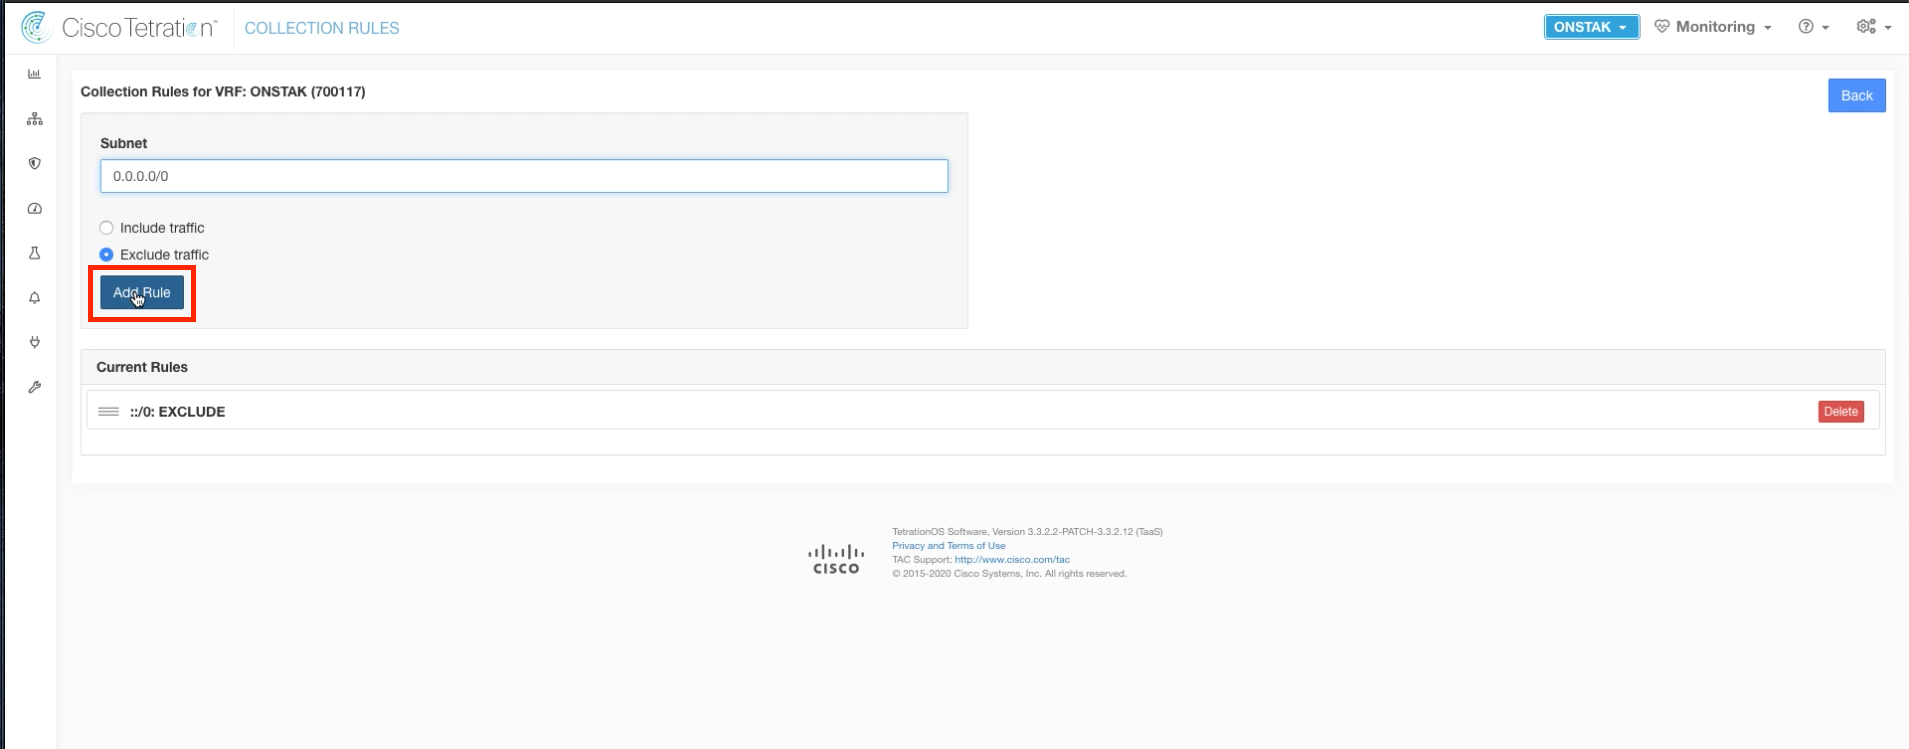
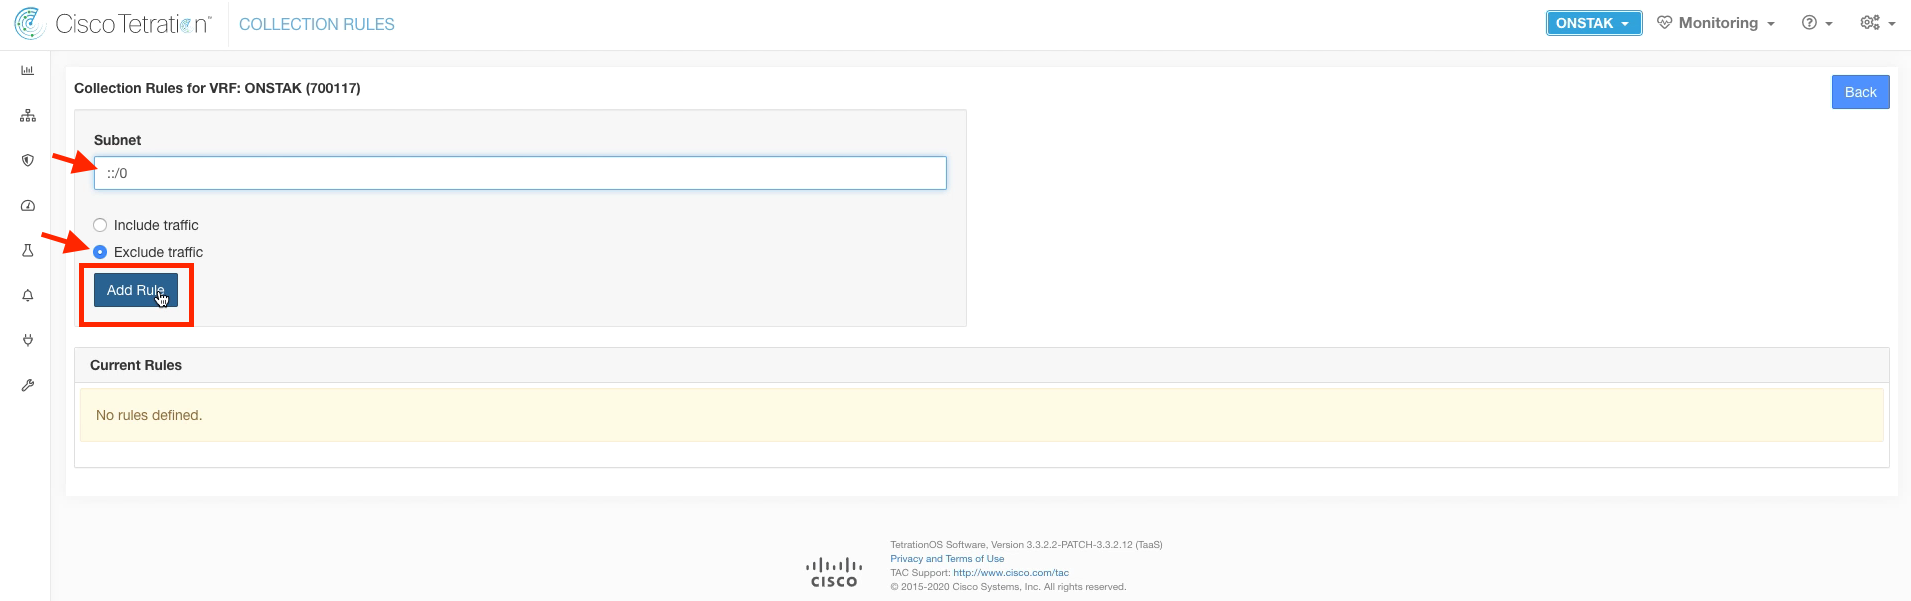
update module01

diff --git a/labguide/image2html-css-md.py b/labguide/image2html-css-md.py
@@ -11,17 +11,18 @@ files = [file for file in glob.glob('*.png')]
 files.sort(key=os.path.getmtime)
 
 for i,file in enumerate(files):
-    new_fn = f'{module}_' + str(i).zfill(3) + '.png'
+    pic_nbr = i + 1
+    new_fn = f'{module}_' + str(pic_nbr).zfill(3) + '.png'
     os.rename(file,new_fn)
-    url_dict[i] = f'https://onstakinc.github.io/cisco-tetration-hol/labguide/{module}/images/{new_fn}'
-    stepnum = str(i).zfill(3)
-    stepnum_dict[i] = f'{stepnum}'
+    url_dict[pic_nbr] = f'https://onstakinc.github.io/cisco-tetration-hol/labguide/{module}/images/{new_fn}'
+    stepnum = str(pic_nbr).zfill(3)
+    stepnum_dict[pic_nbr] = f'{stepnum}'
 
 os.chdir('..')
 
 if os.path.exists('README.md'):
     print("Backing up README.md")
-    copy2('README.md', 'README.bak.md') 
+    copy2('README.md', 'README.bak.md')
 else:
     pass
 

diff --git a/labguide/module02/README.md b/labguide/module02/README.md
@@ -1,37 +1,95 @@
 # Cisco Tetration - Hands-On Lab
 
-## Module02 - Collection Rules
-
+## Module02:  Collection Rules
 In this module we will configure Collection Rules.  Collection Rules govern what endpoints will be considered for inclusion in inventory.  Typically this should be any internal IP address space of an organization.  It may also make sense to configure public IP address space that is used by an organization,  such as DMZ or public cloud address space.  
 
-Perform the following tasks to configure Collection Rules. <a href="https://cisco-tetration-hol-content.s3.amazonaws.com/videos/01_collection_rules.mp4" title="Collection Rules Title">Click here</a> to view a video of the tasks being performed.
+When configuring Collection rules, we must first delete the IPv6 and IPv4 rules that are configured by default in a new Tetration deployment. Then we can create our own specific rules to match the internal IP space. In the lab,  we'll assume the customer uses all RFC1918 private address space inside their organization.
+
+Perform the following tasks to configure Collection Rules. <a href="https://cisco-tetration-hol-content.s3.amazonaws.com/videos/01_collection_rules.mp4" title="Collection Rules Title">Click here</a> to view a video of the tasks being performed.  
+
+### Steps for this Module  
+<a href="#step-001" style="font-weight:bold">Step 001</a>  
+<a href="#step-002" style="font-weight:bold">Step 002</a>  
+<a href="#step-003" style="font-weight:bold">Step 003</a>  
+<a href="#step-004" style="font-weight:bold">Step 004</a>  
+<a href="#step-005" style="font-weight:bold">Step 005</a>  
+<a href="#step-006" style="font-weight:bold">Step 006</a>  
+<a href="#step-007" style="font-weight:bold">Step 007</a>  
+<a href="#step-008" style="font-weight:bold">Step 008</a>  
+<a href="#step-009" style="font-weight:bold">Step 009</a>  
+<a href="#step-010" style="font-weight:bold">Step 010</a>  
 
 
-1. Click on the gear icon in the upper right hand corner and select Collection Rules.   
+<div class="step" id="step-001"><a href="#step-001" style="font-weight:bold">Step 001</a></div>
+Click on the gear icon in the upper right hand corner and select Collection Rules.  
 
-<a href="https://onstakinc.github.io/cisco-tetration-hol/labguide/module02/images/module02_000.png"><img src="https://onstakinc.github.io/cisco-tetration-hol/labguide/module02/images/module02_000.png" style="width:100%;height:100%;"></a>  
+<a href="https://onstakinc.github.io/cisco-tetration-hol/labguide/module02/images/module02_001.png"><img src="https://onstakinc.github.io/cisco-tetration-hol/labguide/module02/images/module02_001.png" style="width:100%;height:100%;"></a>  
 
-2. Click on Edit.
 
-<a href="https://onstakinc.github.io/cisco-tetration-hol/labguide/module02/images/module02_001.png"><img src="https://onstakinc.github.io/cisco-tetration-hol/labguide/module02/images/module02_001.png" style="width:100%;height:100%;"></a>
 
-3. Add rule.   
+<div class="step" id="step-002"><a href="#step-002" style="font-weight:bold">Step 002</a></div>
+Click on Edit.  
 
 <a href="https://onstakinc.github.io/cisco-tetration-hol/labguide/module02/images/module02_002.png"><img src="https://onstakinc.github.io/cisco-tetration-hol/labguide/module02/images/module02_002.png" style="width:100%;height:100%;"></a>  
 
+
+
+<div class="step" id="step-003"><a href="#step-003" style="font-weight:bold">Step 003</a></div>  
+Click Delete to remove the default ::/0: IPv6 rule.
+
 <a href="https://onstakinc.github.io/cisco-tetration-hol/labguide/module02/images/module02_003.png"><img src="https://onstakinc.github.io/cisco-tetration-hol/labguide/module02/images/module02_003.png" style="width:100%;height:100%;"></a>  
+
+
+
+<div class="step" id="step-004"><a href="#step-004" style="font-weight:bold">Step 004</a></div>  
+Click Delete to remove the default 0.0.0.0/0 IPv4 rule.
 
 <a href="https://onstakinc.github.io/cisco-tetration-hol/labguide/module02/images/module02_004.png"><img src="https://onstakinc.github.io/cisco-tetration-hol/labguide/module02/images/module02_004.png" style="width:100%;height:100%;"></a>  
 
+
+
+<div class="step" id="step-005"><a href="#step-005" style="font-weight:bold">Step 005</a></div>  
+Enter ::/0: in the Subnet field,  select "Exclude traffic" and then Add Rule.
+
+
 <a href="https://onstakinc.github.io/cisco-tetration-hol/labguide/module02/images/module02_005.png"><img src="https://onstakinc.github.io/cisco-tetration-hol/labguide/module02/images/module02_005.png" style="width:100%;height:100%;"></a>  
+
+
+
+<div class="step" id="step-006"><a href="#step-006" style="font-weight:bold">Step 006</a></div>  
+Enter 0.0.0.0/0 in the Subnet field, Select "Exclude traffic" and then Add Rule.
 
 <a href="https://onstakinc.github.io/cisco-tetration-hol/labguide/module02/images/module02_006.png"><img src="https://onstakinc.github.io/cisco-tetration-hol/labguide/module02/images/module02_006.png" style="width:100%;height:100%;"></a>  
 
+
+
+<div class="step" id="step-007"><a href="#step-007" style="font-weight:bold">Step 007</a></div>  
+Enter 10.0.0.0/8 in the Subnet field,  Select "include traffic" and then Add Rule.
+
 <a href="https://onstakinc.github.io/cisco-tetration-hol/labguide/module02/images/module02_007.png"><img src="https://onstakinc.github.io/cisco-tetration-hol/labguide/module02/images/module02_007.png" style="width:100%;height:100%;"></a>  
+
+
+
+<div class="step" id="step-008"><a href="#step-008" style="font-weight:bold">Step 008</a></div>  
+Enter 172.16.0.0/12 in the Subnet field,  Select "include traffic" and then Add Rule.
 
 <a href="https://onstakinc.github.io/cisco-tetration-hol/labguide/module02/images/module02_008.png"><img src="https://onstakinc.github.io/cisco-tetration-hol/labguide/module02/images/module02_008.png" style="width:100%;height:100%;"></a>  
 
+
+
+<div class="step" id="step-009"><a href="#step-009" style="font-weight:bold">Step 009</a></div>  
+Enter 192.168.0.0/16 in the Subnet field,  Select "include traffic" and then Add Rule.
+
 <a href="https://onstakinc.github.io/cisco-tetration-hol/labguide/module02/images/module02_009.png"><img src="https://onstakinc.github.io/cisco-tetration-hol/labguide/module02/images/module02_009.png" style="width:100%;height:100%;"></a>  
+
+
+
+<div class="step" id="step-010"><a href="#step-010" style="font-weight:bold">Step 010</a></div>  
+Below is what the ruleset should look like when finished.
+
+<a href="https://onstakinc.github.io/cisco-tetration-hol/labguide/module02/images/module02_010.png"><img src="https://onstakinc.github.io/cisco-tetration-hol/labguide/module02/images/module02_010.png" style="width:100%;height:100%;"></a>  
+
+
 
 
 [Return to Table of Contents](https://onstakinc.github.io/cisco-tetration-hol/labguide/)

diff --git a/labguide/module02/README.bak.md b/labguide/module02/README.bak.md
@@ -2,11 +2,44 @@
   
 ## Module02
   
-![Alt Text](https://onstakinc.github.io/cisco-tetration-hol/labguide/module02/images/module02_000.png)  
+
+### Steps for this Module  
+<a href="#step-001" style="font-weight:bold">Step 001</a>  
+<a href="#step-002" style="font-weight:bold">Step 002</a>  
+<a href="#step-003" style="font-weight:bold">Step 003</a>  
+<a href="#step-004" style="font-weight:bold">Step 004</a>  
+<a href="#step-005" style="font-weight:bold">Step 005</a>  
+
+
+<div class="step" id="step-001"><a href="#step-001" style="font-weight:bold">Step 001</a></div>  
+
+<a href="https://onstakinc.github.io/cisco-tetration-hol/labguide/module02/images/module02_001.png"><img src="https://onstakinc.github.io/cisco-tetration-hol/labguide/module02/images/module02_001.png" style="width:100%;height:100%;"></a>  
   
-![Alt Text](https://onstakinc.github.io/cisco-tetration-hol/labguide/module02/images/module02_001.png)  
+
+
+<div class="step" id="step-002"><a href="#step-002" style="font-weight:bold">Step 002</a></div>  
+
+<a href="https://onstakinc.github.io/cisco-tetration-hol/labguide/module02/images/module02_002.png"><img src="https://onstakinc.github.io/cisco-tetration-hol/labguide/module02/images/module02_002.png" style="width:100%;height:100%;"></a>  
   
-![Alt Text](https://onstakinc.github.io/cisco-tetration-hol/labguide/module02/images/module02_002.png)  
+
+
+<div class="step" id="step-003"><a href="#step-003" style="font-weight:bold">Step 003</a></div>  
+
+<a href="https://onstakinc.github.io/cisco-tetration-hol/labguide/module02/images/module02_003.png"><img src="https://onstakinc.github.io/cisco-tetration-hol/labguide/module02/images/module02_003.png" style="width:100%;height:100%;"></a>  
   
+
+
+<div class="step" id="step-004"><a href="#step-004" style="font-weight:bold">Step 004</a></div>  
+
+<a href="https://onstakinc.github.io/cisco-tetration-hol/labguide/module02/images/module02_004.png"><img src="https://onstakinc.github.io/cisco-tetration-hol/labguide/module02/images/module02_004.png" style="width:100%;height:100%;"></a>  
+  
+
+
+<div class="step" id="step-005"><a href="#step-005" style="font-weight:bold">Step 005</a></div>  
+
+<a href="https://onstakinc.github.io/cisco-tetration-hol/labguide/module02/images/module02_005.png"><img src="https://onstakinc.github.io/cisco-tetration-hol/labguide/module02/images/module02_005.png" style="width:100%;height:100%;"></a>  
+  
+
+
   
 [Return to Table of Contents](https://onstakinc.github.io/cisco-tetration-hol/labguide/)
